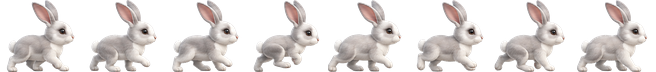
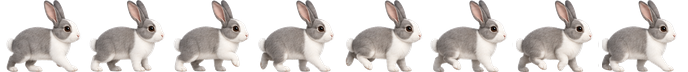
fix(pet): 走路"不协调"——删除多余 stepbob + 猫兔按步态判据重画
用户反馈"还是不协调"。这次把"协调"变成可判定的判据，新增
scripts/check-walk-sheet.py（5 条：摆动相 / 抬脚高度 / 步幅 / 背线极差 / 质量一致），
退出码可直接当生成流水线的验收闸门。用它回测旧三张生图原稿：

- 狗 PASS
- 猫 FAIL：八帧全是四脚贴地，没有摆动相 —— 等于原地搓腿
- 兔 FAIL：背线极差 15px，整只兔在画面里上下弹 20% 身高

"不协调"的第二个来源是我上一轮自己加的：兔那 15px 身体弹跳正好撞上挂在所有
跑图上的自由运转 stepbob（0.3s 正弦、与帧相位无关）→ 两个起伏打架。stepbob
已整条删除（含 keyframes）：素材自带起伏（狗 4px/猫 2px），要更多起伏该在出图时
让腿体现，而不是 CSS 补一个。

重画猫/兔（提示词把步态写成硬约束：至少 2~3 帧某只脚离地 10~20px、各帧身体高度
必须一致）：猫 PASS（步幅 16%、背线 4px）、兔 PASS（背线 15px→1px）。切图后
步幅 猫 12.9px（21.5px/s）、兔 23.4px（39.0px/s），CSS 尺寸与 PET_STRIDE 同步。

另修生图脚本假阳性：发送校验用 body.innerText 找提示词，而输入框自身的文字也在
innerText 里 → 提示词卡在 composer 却报"已发送"（然后干等 300s 超时）。改为只在
[data-message-author-role], article, .markdown 里找。

验证：猫 21.0 / 兔 38.1px/s（理论 21.5/39.0），狗 0.53~0.55px/帧；三只 × 睡/跑
六种组合仍只显示一个元素；页面里已无 stepbob。

diff --git a/src-tauri/embedded/pet.html b/src-tauri/embedded/pet.html
@@ -20,28 +20,32 @@ body.dragging .critter *{cursor:grabbing}
 @keyframes walkcycle{from{background-position:0 0}to{background-position:-824px 0}}
 body:not(.walking) #dog-run.sheet{animation:none;background-position:0 0}
 #dog-run{transition:transform .3s}
-body.walking #dog-run{animation:walkcycle .6s steps(8) infinite,stepbob .3s ease-in-out infinite}
+body.walking #dog-run{animation:walkcycle .6s steps(8) infinite}
 /* 橘猫走路雪碧图：8 帧 × 107px = 856×72（生成图 2172×724 → 去白底 → 等分切帧 → 缩放到 72 高） */
-#cat-run.sheet{width:93px;height:72px;background-image:url("cat-walk-sheet.png");background-size:768px 72px;background-repeat:no-repeat;animation:catwalk .6s steps(8) infinite}
-@keyframes catwalk{from{background-position:0 0}to{background-position:-768px 0}}
+#cat-run.sheet{width:79px;height:72px;background-image:url("cat-walk-sheet.png");background-size:656px 72px;background-repeat:no-repeat;animation:catwalk .6s steps(8) infinite}
+@keyframes catwalk{from{background-position:0 0}to{background-position:-656px 0}}
 body:not(.walking) #cat-run.sheet{animation:none;background-position:0 0}
-body.walking #cat-run{animation:catwalk .6s steps(8) infinite,stepbob .3s ease-in-out infinite}
+body.walking #cat-run{animation:catwalk .6s steps(8) infinite}
 /* 灰兔走路雪碧图：8 帧 × 88px = 704×72 */
-#rabbit-run.sheet{width:79px;height:72px;background-image:url("rabbit-walk-sheet.png");background-size:656px 72px;background-repeat:no-repeat;animation:rabbitwalk .6s steps(8) infinite}
-@keyframes rabbitwalk{from{background-position:0 0}to{background-position:-656px 0}}
+#rabbit-run.sheet{width:83px;height:72px;background-image:url("rabbit-walk-sheet.png");background-size:688px 72px;background-repeat:no-repeat;animation:rabbitwalk .6s steps(8) infinite}
+@keyframes rabbitwalk{from{background-position:0 0}to{background-position:-688px 0}}
 body:not(.walking) #rabbit-run.sheet{animation:none;background-position:0 0}
-body.walking #rabbit-run{animation:rabbitwalk .6s steps(8) infinite,stepbob .3s ease-in-out infinite}
+body.walking #rabbit-run{animation:rabbitwalk .6s steps(8) infinite}
 /* .crit-run 只是"当前跑图"的标记类（三个跑图元素都是雪碧图 div.sheet，尺寸与帧动画各自声明），
    setFace() 用它统一施加转向 scale */
 .crit-run{height:72px}
-body.walking .crit-run{animation:stepbob .3s ease-in-out infinite}
+/* 曾经这里给所有跑图挂了一个自由运转的 stepbob（0.3s 正弦）。已删除：
+   素材本身就有身体起伏（实测背线极差：狗 4px / 猫 2px / 兔 15px），再叠一个
+   与帧相位无关的正弦，两个起伏互相打架 —— 用户反馈的"不协调"就是这么来的。
+   想要起伏，应该在出图时让它由腿部姿态体现（见 scripts/check-walk-sheet.py
+   的"body height stable"判据），而不是在 CSS 里补一个。 */
 /* 白描边+投影让宠物在任何背景上都看得见。注意用 .sprite 而非 img.sprite——
    狗的跑图是 div（雪碧图），原选择器把它漏掉了，走路态因此没有描边。 */
 .sprite{filter:drop-shadow(0 0 1.5px rgba(255,255,255,.9)) drop-shadow(0 2px 3px rgba(255,255,255,.5)) drop-shadow(0 5px 12px rgba(0,0,0,.5));transform-origin:center;-webkit-user-drag:none;user-select:none}
 
 /* 起伏幅度砍半：72px 精灵上抖 5px（3.3Hz）看起来是抽搐而不是走路。
    频率保持每循环两次（四足对角步态本来如此），只压幅度。 */
-@keyframes stepbob{0%,100%{transform:translateY(0)}25%{transform:translateY(-1.2px)}50%{transform:translateY(0)}75%{transform:translateY(-0.8px)}}
+
 /* 铭牌贴住狗头顶：狗盒高 72px，bottom:80px ⇒ 与头顶留 8px（跑动 stepbob 抬 2.5px 仍有余量）。
    历史 bug：这里原用 top:-2px 钉在 170px 容器顶部，而狗被 flex-end 压在底部，中间空出 70px。 */
 .plate{position:absolute;bottom:80px;left:50%;transform:translateX(-50%);background:rgba(22,22,28,.92);border:1px solid rgba(255,255,255,.15);border-radius:9px;padding:2px 7px;color:#e8e8e8;font-family:monospace;font-variant-numeric:tabular-nums;box-shadow:0 0 0 1px rgba(255,255,255,.12),0 3px 10px rgba(0,0,0,.45);text-align:center;line-height:1.25}
@@ -206,8 +210,9 @@ window.addEventListener('pointercancel',endDrag);
 window.addEventListener('blur',endDrag);
 // 步速必须与雪碧图的步幅自洽，否则就是"冰上滑"（用户反馈的"滑步"）。
 // 实测「一个 8 帧循环里，脚（最低墨迹重心）相对身体前后移动多少像素」：
-//   狗 19.5px（20%，换图前 8.6px）/ 猫 13.4px（14%，换图前 21.3px）/ 兔 23.1px（29%）
-// 循环 0.6s 时，脚踩住地面的速度上限 = 步幅 ÷ 0.6s → 狗 32.5 / 猫 22.3 / 兔 38.4 px/s。
+//   狗 19.5px（20%）/ 猫 12.9px（16%）/ 兔 23.4px（28%）—— 猫兔于 09-30 二版重画
+//   （第一版猫是"四脚全贴地搓腿"、兔是"身体整体弹跳 15px"，见 scripts/check-walk-sheet.py）
+// 循环 0.6s 时，脚踩住地面的速度上限 = 步幅 ÷ 0.6s → 狗 32.5 / 猫 21.5 / 兔 39.0 px/s。
 // 旧参数 SW*0.004（1920 屏 ≈70px/s）对狗曾经是上限的 4.9 倍 —— 整段路都在打滑。
 // 所以按宠物分别取速度（换素材就改这张表；想跑更快只能重画步幅更大的雪碧图）；
 // 另外用绝对像素而不是 SW 比例，否则 4K 屏上会自己加速到 140px/s。
@@ -216,7 +221,7 @@ var WALK_CYCLE_S=0.6;
 // → 必须慢跑到 14px/s 才不打滑）。新图边缘锐度 42~50（≈参考图缩到 72 高的基准
 // 47~52，即平滑渲染），步幅也变大：狗 8.6→19.5、兔 21.7→23.1；猫 21.3→13.4
 // （猫这张步幅小了些，速度表会跟着降到 22px/s，仍然不打滑）。
-var PET_STRIDE={dog:19.5, cat:13.4, rabbit:23.1};
+var PET_STRIDE={dog:19.5, cat:12.9, rabbit:23.4};
 function walkPxPerSecond(){
   var pet=PETS[petIdx];                       // PETS 在下方定义，运行时才求值
   var stride=PET_STRIDE[pet&&pet.id]||19.5;

diff --git a/src-tauri/scripts/check-walk-sheet.py b/src-tauri/scripts/check-walk-sheet.py
@@ -1,0 +1,166 @@
+#!/usr/bin/env python3
+"""走路雪碧图验收：判断一张（未切的）生图能不能当 walk cycle 用。
+
+为什么要它：模型很容易画出"八帧都在原地搓腿"的图 —— 每帧三四只脚全贴地，
+没有摆动相（某只脚明显离地）。这种图切出来再配上速度也是"滑"，不是"走"。
+肉眼看八张缩略图不可靠，所以把判据量化：
+
+  1. 摆动相：至少 2 帧里"触地脚簇" ≤ 2（说明有脚抬起来了）
+  2. 抬脚高度：抬起的那只脚，爪底距画面底线 ≥ 6px
+  3. 步幅：脚（最低墨迹重心）在循环内前后移动 ≥ 12% 身宽
+  4. 身高稳定：各帧"躯干中段背线"极差 ≤ 4px（起伏由腿体现，不是整体上下跳）
+  5. 质量一致：各帧墨迹面积极差 ≤ 25%（不要一帧胖一帧瘦）
+用法：check-walk-sheet.py <原图.png> [--frames 8] [--minlift 6] [--json]
+"""
+import json
+import sys
+
+import numpy as np
+from PIL import Image, ImageDraw
+
+
+def background_to_alpha(im, thresh=235):
+    """与 make-walk-sheet.py 同一套四边泛洪去白底。"""
+    im = im.convert('RGB')
+    w, h = im.size
+    work = im.copy()
+    sentinel = (255, 0, 255)
+    for x in range(0, w, 4):
+        ImageDraw.floodfill(work, (x, 0), sentinel, thresh=255 - thresh)
+        ImageDraw.floodfill(work, (x, h - 1), sentinel, thresh=255 - thresh)
+    for y in range(0, h, 4):
+        ImageDraw.floodfill(work, (0, y), sentinel, thresh=255 - thresh)
+        ImageDraw.floodfill(work, (w - 1, y), sentinel, thresh=255 - thresh)
+    a = np.array(work)
+    bg = (a[:, :, 0] == 255) & (a[:, :, 1] == 0) & (a[:, :, 2] == 255)
+    return Image.fromarray(np.dstack([np.array(im), np.where(bg, 0, 255).astype(np.uint8)]), 'RGBA')
+
+
+def ink_runs(cols, min_gap=6):
+    runs = []
+    s = None
+    gap = 0
+    for i, v in enumerate(cols):
+        if v:
+            if s is None:
+                s = i
+            gap = 0
+        else:
+            if s is not None:
+                gap += 1
+                if gap >= min_gap:
+                    runs.append((s, i - gap))
+                    s = None
+    if s is not None:
+        runs.append((s, len(cols) - 1))
+    return runs
+
+
+def analyse(path, frames=8, min_lift=6):
+    im = background_to_alpha(Image.open(path))
+    a = np.array(im)
+    ink = a[:, :, 3] > 40
+    runs = ink_runs(ink.any(axis=0), min_gap=6)
+    if len(runs) != frames:
+        # 粘连/多画：退回等分
+        cols = np.zeros(im.size[0], bool)
+        cols[ink.any(axis=0)] = True
+        step = im.size[0] / frames
+        runs = [(int(i * step), int((i + 1) * step) - 1) for i in range(frames)]
+    report = {'segments': len(runs), 'frames': []}
+    for i, (x0, x1) in enumerate(runs[:frames]):
+        cell = ink[:, x0:x1 + 1]
+        ys, xs = np.nonzero(cell)
+        if len(ys) == 0:
+            report['frames'].append(None)
+            continue
+        bottom = int(ys.max())
+        # 触地脚簇：底部 3 行内的墨迹列簇
+        low = cell[max(0, bottom - 2):bottom + 1, :].any(axis=0)
+        clusters = 0
+        prev = False
+        for c in low:
+            if c and not prev:
+                clusters += 1
+            prev = c
+        # 抬脚高度：最低墨迹之上，看"离地"的局部最低点（爪底与底线之间的空隙）
+        # 取每一列的最低墨迹 y，找到明显高于底线的列（说明那只脚抬起来了）
+        col_low = np.full(cell.shape[1], bottom)
+        for c in range(cell.shape[1]):
+            rows = np.nonzero(cell[:, c])[0]
+            if len(rows):
+                col_low[c] = rows.max()
+        lifted = int((col_low <= bottom - min_lift).sum())
+        # 躯干背线：中段列的最上一行墨迹
+        bx0, bx1 = xs.min(), xs.max()
+        m0, m1 = int(bx0 + (bx1 - bx0) * 0.35), int(bx0 + (bx1 - bx0) * 0.65)
+        mid = cell[:, m0:m1 + 1]
+        rows = np.nonzero(mid.any(axis=1))[0]
+        report['frames'].append({
+            'x0': x0, 'x1': x1, 'w': x1 - x0 + 1,
+            'mass': int(cell.sum()),
+            'contacts': clusters,
+            'lifted_cols': lifted,
+            'back_y': int(rows.min()) if len(rows) else None,
+            'bottom': bottom,
+            'foot_x': float(np.nonzero(cell[bottom - 2:bottom + 1, :])[1].mean()) if clusters else None,
+        })
+    valid = [f for f in report['frames'] if f]
+    if not valid:
+        report['verdict'] = 'FAIL: 没检测到内容'
+        return report
+    swing = [f for f in valid if f['contacts'] <= 2]
+    lift_frames = [f for f in valid if f['lifted_cols'] >= 3]
+    backs = [f['back_y'] for f in valid if f['back_y'] is not None]
+    masses = [f['mass'] for f in valid]
+    foot_xs = [f['foot_x'] for f in valid if f['foot_x'] is not None]
+    width = float(np.mean([f['w'] for f in valid]))
+    stride = (max(foot_xs) - min(foot_xs)) if foot_xs else 0.0
+    report['summary'] = {
+        'swing_frames': len(swing),
+        'lift_frames': len(lift_frames),
+        'contacts': [f['contacts'] for f in valid],
+        'max_lifted_cols': max(f['lifted_cols'] for f in valid),
+        'back_spread': (max(backs) - min(backs)) if backs else None,
+        'mass_spread_pct': round(100 * (max(masses) - min(masses)) / max(1, np.mean(masses)), 1),
+        'stride_px': round(stride, 1),
+        'stride_pct_of_width': round(100 * stride / max(1, width), 1),
+    }
+    s = report['summary']
+    checks = [
+        ('swing phase (≥2 frames with ≤2 contacts)', s['swing_frames'] >= 2),
+        (f'foot lift (≥3 columns lifted ≥{min_lift}px)', s['lift_frames'] >= 1),
+        ('stride ≥12% body width', s['stride_pct_of_width'] >= 12),
+        ('body height stable (back spread ≤4px)', (s['back_spread'] is not None and s['back_spread'] <= 4)),
+        ('mass consistent (≤25%)', s['mass_spread_pct'] <= 25),
+    ]
+    report['checks'] = [{'name': n, 'pass': bool(p)} for n, p in checks]
+    report['verdict'] = 'PASS' if all(p for _, p in checks) else 'FAIL'
+    return report
+
+
+def main():
+    path = sys.argv[1]
+    args = sys.argv[2:]
+    opt = lambda n, d: int(args[args.index(n) + 1]) if n in args else d
+    r = analyse(path, frames=opt('--frames', 8), min_lift=opt('--minlift', 6))
+    if '--json' in args:
+        print(json.dumps(r, ensure_ascii=False))
+        return
+    print(f"输入 {path}")
+    s = r.get('summary')
+    if not s:
+        print(r.get('verdict'))
+        sys.exit(1)
+    print(f"  触地脚簇/帧: {s['contacts']}   (走路的摆动相应出现 ≤2)")
+    print(f"  有脚离地的帧: {s['lift_frames']} / {len(r['frames'])}   最大离地列数 {s['max_lifted_cols']}")
+    print(f"  步幅 {s['stride_px']}px = {s['stride_pct_of_width']}% 身宽")
+    print(f"  背线极差 {s['back_spread']}px   墨迹面积极差 {s['mass_spread_pct']}%")
+    for c in r['checks']:
+        print(f"  [{'✓' if c['pass'] else '✗'}] {c['name']}")
+    print(f"  结论: {r['verdict']}")
+    sys.exit(0 if r['verdict'] == 'PASS' else 1)
+
+
+if __name__ == '__main__':
+    main()
